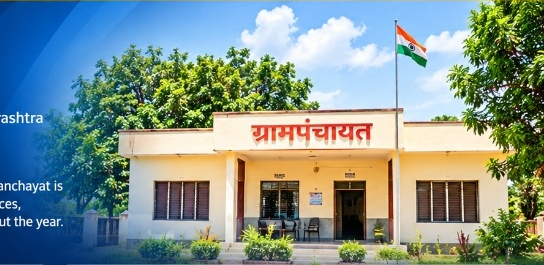
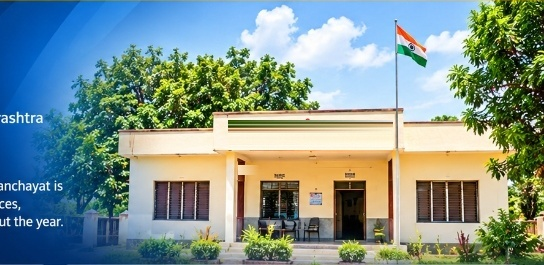
fix(portal): set 5-min rate limit lockout, fix report subnav pills active styling and tab switching, remove building photo text overlay

Changed region(s): [[0.4062, 0.4528, 0.7188, 0.5736], [0.4375, 0.6038, 0.4688, 0.6642], [0.5625, 0.634, 0.5938, 0.6642]]

diff --git a/translations.js b/translations.js
@@ -260,9 +260,9 @@ export const translations = {
     login_chip_cit1: "Citizen 1 - Tukaram Shinde (CIT-101)",
     login_chip_cit2: "Citizen 2 - Savita Devi (CIT-102)",
     login_reg_link: "Not registered yet? Resident Self-Registration",
-    login_rate_limited: "Too many failed login attempts. Please try again after 15 minutes.",
+    login_rate_limited: "Too many failed login attempts. Please try again after 5 minutes.",
     login_locked_title: "Too Many Failed Attempts",
-    login_locked_banner: "Login is temporarily locked for 15 minutes to protect your account. Please wait:",
+    login_locked_banner: "Login is temporarily locked for 5 minutes to protect your account. Please wait:",
     login_locked_btn: "Login Locked",
     login_lock_expired: "Lockout expired. You may now attempt to sign in.",
 
@@ -1001,9 +1001,9 @@ export const translations = {
     login_chip_cit1: "नागरिक १ - तुकाराम शिंदे (CIT-101)",
     login_chip_cit2: "नागरिक २ - सविता देवी (CIT-102)",
     login_reg_link: "अद्याप खाते नाही? येथे नागरिक स्वयं-नोंदणी करा",
-    login_rate_limited: "अनेक अयशस्वी लॉगिन प्रयत्न झाले आहेत. कृपया १५ मिनिटांनंतर पुन्हा प्रयत्न करा.",
+    login_rate_limited: "अनेक अयशस्वी लॉगिन प्रयत्न झाले आहेत. कृपया ५ मिनिटांनंतर पुन्हा प्रयत्न करा.",
     login_locked_title: "अनेक अयशस्वी लॉगिन प्रयत्न",
-    login_locked_banner: "खात्याच्या सुरक्षेसाठी लॉगिन तात्पुरते १५ मिनिटांसाठी बंद केले आहे. कृपया प्रतीक्षा करा:",
+    login_locked_banner: "खात्याच्या सुरक्षेसाठी लॉगिन तात्पुरते ५ मिनिटांसाठी बंद केले आहे. कृपया प्रतीक्षा करा:",
     login_locked_btn: "लॉगिन तात्पुरते बंद",
     login_lock_expired: "प्रतीक्षा कालावधी संपला आहे. आपण आता पुन्हा लॉगिन करू शकता.",
 

diff --git a/backend/security/loginRateLimiter.js b/backend/security/loginRateLimiter.js
@@ -17,8 +17,8 @@ import { isFirestore, getDb, mysqlQuery, COLLECTIONS } from "../repositories/bas
 
 export const RATE_LIMIT_CONFIG = {
   MAX_FAILED_ATTEMPTS: 5,
-  WINDOW_MS: 15 * 60 * 1000,        // 15 minutes
-  BLOCK_DURATION_MS: 15 * 60 * 1000  // 15 minutes
+  WINDOW_MS: 5 * 60 * 1000,        // 5 minutes
+  BLOCK_DURATION_MS: 5 * 60 * 1000  // 5 minutes
 };
 
 // Fallback in-memory store if database is unreachable or for isolated unit tests
@@ -289,8 +289,8 @@ export async function checkLoginRateLimit(req, identifier) {
       reason: "ip",
       retryAfterSeconds,
       retryMinutes,
-      message: "Too many failed login attempts. Please try again after 15 minutes.",
-      message_mr: "अनेक अयशस्वी लॉगिन प्रयत्न झाले आहेत. कृपया १५ मिनिटांनंतर पुन्हा प्रयत्न करा."
+      message: "Too many failed login attempts. Please try again after 5 minutes.",
+      message_mr: "अनेक अयशस्वी लॉगिन प्रयत्न झाले आहेत. कृपया ५ मिनिटांनंतर पुन्हा प्रयत्न करा."
     };
   }
 
@@ -306,8 +306,8 @@ export async function checkLoginRateLimit(req, identifier) {
         reason: "account",
         retryAfterSeconds,
         retryMinutes,
-        message: "Too many failed login attempts. Please try again after 15 minutes.",
-        message_mr: "अनेक अयशस्वी लॉगिन प्रयत्न झाले आहेत. कृपया १५ मिनिटांनंतर पुन्हा प्रयत्न करा."
+        message: "Too many failed login attempts. Please try again after 5 minutes.",
+        message_mr: "अनेक अयशस्वी लॉगिन प्रयत्न झाले आहेत. कृपया ५ मिनिटांनंतर पुन्हा प्रयत्न करा."
       };
     }
   }

diff --git a/style.css b/style.css
@@ -4250,10 +4250,10 @@ body {
   flex-wrap: wrap;
   gap: 10px;
   margin-bottom: 24px;
-  background: var(--bg-card);
+  background: #f8fafc;
   padding: 8px;
-  border-radius: var(--radius-md);
-  border: 1px solid var(--border-light);
+  border-radius: 10px;
+  border: 1px solid #cbd5e1;
 }
 
 .app-pill-btn {
@@ -4261,25 +4261,53 @@ body {
   align-items: center;
   gap: 8px;
   padding: 10px 18px;
-  border-radius: var(--radius-sm);
-  background: transparent;
-  color: var(--text-muted);
+  border-radius: 8px;
+  background: #ffffff;
+  color: #334155;
   font-weight: 600;
   font-size: 0.92rem;
-  border: none;
+  border: 1px solid #cbd5e1;
   cursor: pointer;
   transition: all 0.2s ease;
 }
 
+.app-pill-btn svg {
+  color: #64748b;
+  flex-shrink: 0;
+  transition: color 0.2s ease;
+}
+
 .app-pill-btn:hover {
-  background: var(--bg-surface);
-  color: var(--primary);
+  background: #e0f2fe;
+  color: #0369a1;
+  border-color: #7dd3fc;
+}
+
+.app-pill-btn:hover svg {
+  color: #0369a1;
 }
 
 .app-pill-btn.active {
-  background: var(--primary);
-  color: #ffffff;
-  box-shadow: 0 2px 6px rgba(2, 132, 199, 0.25);
+  background: #0284c7 !important;
+  color: #ffffff !important;
+  border-color: #0284c7 !important;
+  box-shadow: 0 3px 8px rgba(2, 132, 199, 0.35);
+}
+
+.app-pill-btn.active svg {
+  color: #ffffff !important;
+}
+
+.app-pill-btn.active span {
+  color: #ffffff !important;
+}
+
+.app-pane {
+  display: none;
+}
+
+.app-pane.active {
+  display: block !important;
 }
 
 /* RTI Legal & Compliance Banner */

diff --git a/backend/routes/authRoutes.js b/backend/routes/authRoutes.js
@@ -30,13 +30,13 @@ router.post("/login", async (req, res) => {
     // 1. Check rate limit before performing any lookup or authentication
     const rateCheck = await checkLoginRateLimit(req, identifier);
     if (rateCheck.blocked) {
-      res.setHeader("Retry-After", String(rateCheck.retryAfterSeconds || 900));
+      res.setHeader("Retry-After", String(rateCheck.retryAfterSeconds || 300));
       return res.status(429).json({
         error: "Too Many Requests",
-        message: rateCheck.message || "Too many failed login attempts. Please try again after 15 minutes.",
-        message_mr: rateCheck.message_mr || "अनेक अयशस्वी लॉगिन प्रयत्न झाले आहेत. कृपया १५ मिनिटांनंतर पुन्हा प्रयत्न करा.",
+        message: rateCheck.message || "Too many failed login attempts. Please try again after 5 minutes.",
+        message_mr: rateCheck.message_mr || "अनेक अयशस्वी लॉगिन प्रयत्न झाले आहेत. कृपया ५ मिनिटांनंतर पुन्हा प्रयत्न करा.",
         retryAfter: rateCheck.retryAfterSeconds,
-        retryAfterMinutes: rateCheck.retryMinutes || Math.ceil((rateCheck.retryAfterSeconds || 900) / 60)
+        retryAfterMinutes: rateCheck.retryMinutes || Math.ceil((rateCheck.retryAfterSeconds || 300) / 60)
       });
     }
 

diff --git a/index.html b/index.html
@@ -286,9 +286,7 @@
             <div class="hero-right-visual">
               <div class="hero-building-frame">
                 <img src="/gp_building.jpg" alt="उगवा ग्रामपंचायत कार्यालय इमारत" class="hero-building-img" />
-                <div class="hero-building-label">
-                  <span>उगवा ग्रामपंचायत कार्यालय</span>
-                </div>
+
               </div>
             </div>
           </div>
@@ -1239,8 +1237,8 @@
               <div class="lockout-text">
                 <div class="lockout-title" id="lockoutTitle" data-i18n="login_locked_title">Too Many Failed Attempts</div>
                 <div class="lockout-desc">
-                  <span id="lockoutDescText" data-i18n="login_locked_banner">Login is temporarily locked for 15 minutes to protect your account. Please wait:</span>
-                  <strong id="lockoutCountdown" class="timer-badge">15:00</strong>
+                  <span id="lockoutDescText" data-i18n="login_locked_banner">Login is temporarily locked for 5 minutes to protect your account. Please wait:</span>
+                  <strong id="lockoutCountdown" class="timer-badge">05:00</strong>
                 </div>
               </div>
             </div>

diff --git a/panchayatApp.js b/panchayatApp.js
@@ -221,7 +221,9 @@ export function switchAppSectionTab(tabName) {
   const panes = document.querySelectorAll("#page-report .app-pane");
   panes.forEach(pane => {
     const paneName = pane.id.replace("appPane", "").toLowerCase();
-    pane.classList.toggle("active", paneName === tabName.toLowerCase());
+    const isActive = paneName === tabName.toLowerCase();
+    pane.classList.toggle("active", isActive);
+    pane.style.display = isActive ? "block" : "none";
   });
 
   if (tabName === "notices") {
